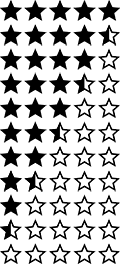
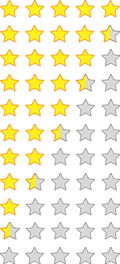
Styled the search results containers

diff --git a/src/app/search/search-results/search-results.component.css b/src/app/search/search-results/search-results.component.css
@@ -9,17 +9,20 @@
   position: relative;
   z-index: 1; }
   #search-results-container .search-result {
-    border: 1px solid #000;
+    border: 1px solid #a4a9bc;
     width: 100%;
     height: 85px;
-    position: relative; }
+    position: relative;
+    background-color: #F9FCFE;
+    color: #191E50; }
     #search-results-container .search-result .company-name {
       display: block;
       width: 230px;
       text-decoration: underline;
       position: absolute;
       left: 8px;
-      top: 8px; }
+      top: 8px;
+      font-weight: bold; }
     #search-results-container .search-result .company-country {
       position: absolute;
       right: 8px;
@@ -32,35 +35,34 @@
       content: '';
       display: block;
       width: 122px;
-      height: 22px;
+      height: 20px;
       background: url("/assets/images/reviews.png") no-repeat; }
     #search-results-container .search-result .reviews-avg-0:after {
-      background-position: 1px -244px; }
+      background-position: 1px -247px; }
     #search-results-container .search-result .reviews-avg-0-5:after {
-      background-position: 1px -219px; }
+      background-position: 1px -222px; }
     #search-results-container .search-result .reviews-avg-1:after {
-      background-position: 1px -194px; }
+      background-position: 1px -198px; }
     #search-results-container .search-result .reviews-avg-1-5:after {
-      background-position: 1px -170px; }
+      background-position: 1px -172px; }
     #search-results-container .search-result .reviews-avg-2:after {
-      background-position: 1px -146px; }
+      background-position: 1px -147px; }
     #search-results-container .search-result .reviews-avg-2-5:after {
-      background-position: 1px -121px; }
+      background-position: 1px -123px; }
     #search-results-container .search-result .reviews-avg-3:after {
-      background-position: 1px -97px; }
+      background-position: 1px -98px; }
     #search-results-container .search-result .reviews-avg-3-5:after {
-      background-position: 1px -72px; }
+      background-position: 1px -73px; }
     #search-results-container .search-result .reviews-avg-4:after {
       background-position: 1px -48px; }
     #search-results-container .search-result .reviews-avg-4-5:after {
       background-position: 1px -24px; }
     #search-results-container .search-result .reviews-avg-5:after {
-      background-position: 1px 0; }
+      background-position: 1px -1; }
     #search-results-container .search-result .reviews-count {
       position: absolute;
       left: 134px;
-      bottom: 6px;
-      font-weight: bold; }
+      bottom: 6px; }
     #search-results-container .search-result .verification {
       position: absolute;
       right: 8px;

diff --git a/src/app/search/search-results/search-results.component.scss b/src/app/search/search-results/search-results.component.scss
@@ -15,10 +15,12 @@
   z-index: 1;
   
   .search-result {
-    border: 1px solid #000;
+    border: 1px solid #a4a9bc;
     width: 100%;
     height: 85px;
     position: relative;
+    background-color: $white;
+    color: $dark-blue;
 
     .company-name {
       display: block;
@@ -27,6 +29,7 @@
       position: absolute;
       left: 8px;
       top: 8px;
+      font-weight: bold;
     }
     .company-country {
       position: absolute;
@@ -44,33 +47,33 @@
       content: '';
       display: block;
       width: 122px;
-      height: 22px;
+      height: 20px;
       background: url("/assets/images/reviews.png") no-repeat;
     }
 
     .reviews-avg-0:after {
-      background-position: 1px -244px;
+      background-position: 1px -247px;
     }
     .reviews-avg-0-5:after {
-      background-position: 1px -219px;
+      background-position: 1px -222px;
     }
     .reviews-avg-1:after {
-      background-position: 1px -194px;
+      background-position: 1px -198px;
     }
     .reviews-avg-1-5:after {
-      background-position: 1px -170px;
+      background-position: 1px -172px;
     }
     .reviews-avg-2:after {
-      background-position: 1px -146px;
+      background-position: 1px -147px;
     }
     .reviews-avg-2-5:after {
-      background-position: 1px -121px;
+      background-position: 1px -123px;
     }
     .reviews-avg-3:after {
-      background-position: 1px -97px;
+      background-position: 1px -98px;
     }
     .reviews-avg-3-5:after {
-      background-position: 1px -72px;
+      background-position: 1px -73px;
     }
     .reviews-avg-4:after {
       background-position: 1px -48px;
@@ -79,7 +82,7 @@
       background-position: 1px -24px;
     }
     .reviews-avg-5:after {
-      background-position: 1px 0;
+      background-position: 1px -1;
     }
 
 
@@ -87,7 +90,6 @@
       position: absolute;
       left: 134px;
       bottom: 6px;
-      font-weight: bold;
     }
 
     .verification {
